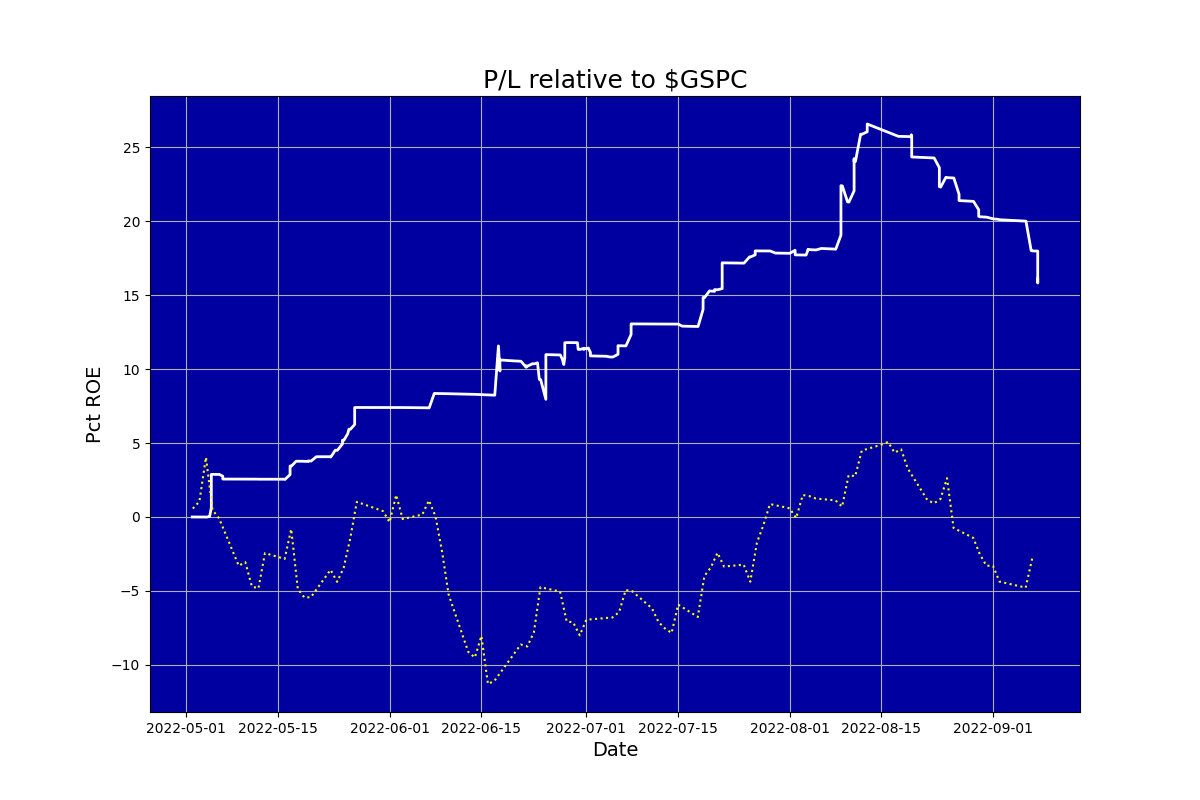
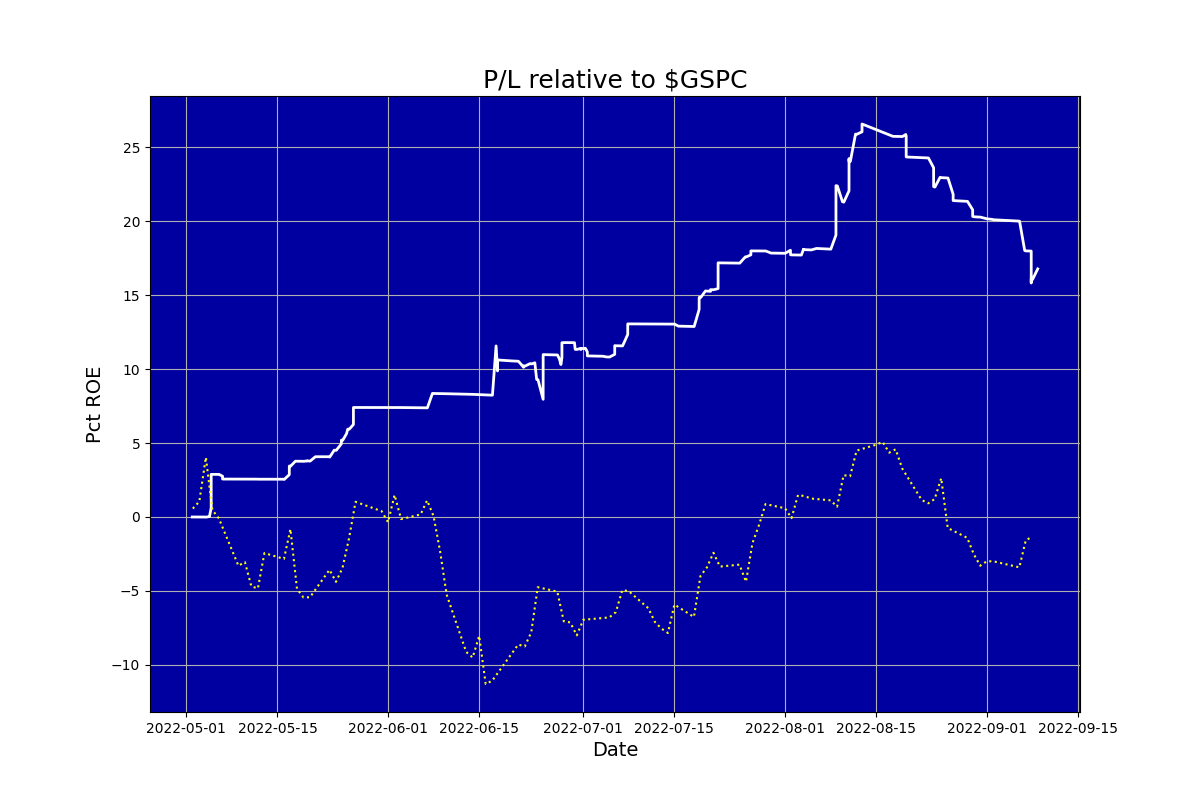
Updated

diff --git a/ig_report.html b/ig_report.html
@@ -1,1 +1,1 @@
-<html><body><center><h1>Auriel (never knowingly overbought)</h1></center><table cols=2><tr><td><img src=ig_pl.png></td><td><table cols=2><tr><td colspan=2><b><br>Snapshot</b></td></tr><tr><td>Last updated:&nbsp;&nbsp;&nbsp;</td><td>2022-09-07 16:00</td></tr><tr><td>Funds:&nbsp;&nbsp;&nbsp;</td><td>13422.88</td></tr><tr><td>Margin:&nbsp;&nbsp;&nbsp;</td><td>0.41</td></tr><tr><td>Cushion:&nbsp;&nbsp;&nbsp;</td><td>-2349.92</td></tr><tr><td>Last closed trade:&nbsp;&nbsp;&nbsp;</td><td>2022-09-07</td></tr><tr><td colspan=2><b><br>Positions</b></td></tr><tr><td>Mean days to new high:&nbsp;&nbsp;&nbsp;</td><td>3.45</td></tr><tr><td colspan=2><b><br>Trades</b></td></tr><tr><td>Num trades:&nbsp;&nbsp;&nbsp;</td><td>109</td></tr><tr><td>Pct winners:&nbsp;&nbsp;&nbsp;</td><td>60.55</td></tr><tr><td>Pct beating benchmark:&nbsp;&nbsp;&nbsp;</td><td>59.26</td></tr><tr><td>Pct profitable months:&nbsp;&nbsp;&nbsp;</td><td>80.00</td></tr><tr><td colspan=2><b><br>Performance</b></td></tr><tr><td>Pct median monthly ROE:&nbsp;&nbsp;&nbsp;</td><td>4.25</td></tr><tr><td>Pct annualised ROE:&nbsp;&nbsp;&nbsp;</td><td>86.22</td></tr><tr><td colspan=2><b><br>Risk</b></td></tr><tr><td>Volatility pct:&nbsp;&nbsp;&nbsp;</td><td>20.14</td></tr><tr><td>Benchmark volatility pct:&nbsp;&nbsp;&nbsp;</td><td>24.97</td></tr><tr><td>Sharpe ratio:&nbsp;&nbsp;&nbsp;</td><td>4.19</td></tr><tr><td>Calmar ratio:&nbsp;&nbsp;&nbsp;</td><td>8.46</td></tr><tr><td>Worst drawdown pct:&nbsp;&nbsp;&nbsp;</td><td>-0.10</td></tr><tr><td>Recovery days from worst drawdown:&nbsp;&nbsp;&nbsp;</td><td>9999.00</td></tr><tr><td>Beat benchmark +ve periods pct:&nbsp;&nbsp;&nbsp;</td><td>0.82</td></tr><tr><td>Beat benchmark -ve periods pct:&nbsp;&nbsp;&nbsp;</td><td>0.96</td></tr><tr><td>Correlation with benchmark:&nbsp;&nbsp;&nbsp;</td><td>0.25</td></tr></table></td></tr></table></body></html>
+<html><body><center><h1>Auriel (never knowingly overbought)</h1></center><table cols=2><tr><td><img src=ig_pl.png></td><td><table cols=2><tr><td colspan=2><b><br>Snapshot</b></td></tr><tr><td>Last updated:&nbsp;&nbsp;&nbsp;</td><td>2022-09-08 15:58</td></tr><tr><td>Funds:&nbsp;&nbsp;&nbsp;</td><td>13519.88</td></tr><tr><td>Margin:&nbsp;&nbsp;&nbsp;</td><td>0.39</td></tr><tr><td>Cushion:&nbsp;&nbsp;&nbsp;</td><td>-2107.01</td></tr><tr><td>Last closed trade:&nbsp;&nbsp;&nbsp;</td><td>2022-09-08</td></tr><tr><td colspan=2><b><br>Positions</b></td></tr><tr><td>Mean days to new high:&nbsp;&nbsp;&nbsp;</td><td>3.53</td></tr><tr><td colspan=2><b><br>Trades</b></td></tr><tr><td>Num trades:&nbsp;&nbsp;&nbsp;</td><td>110</td></tr><tr><td>Pct winners:&nbsp;&nbsp;&nbsp;</td><td>60.91</td></tr><tr><td>Pct beating benchmark:&nbsp;&nbsp;&nbsp;</td><td>59.63</td></tr><tr><td>Pct profitable months:&nbsp;&nbsp;&nbsp;</td><td>80.00</td></tr><tr><td colspan=2><b><br>Performance</b></td></tr><tr><td>Pct median monthly ROE:&nbsp;&nbsp;&nbsp;</td><td>4.25</td></tr><tr><td>Pct annualised ROE:&nbsp;&nbsp;&nbsp;</td><td>88.07</td></tr><tr><td colspan=2><b><br>Risk</b></td></tr><tr><td>Volatility pct:&nbsp;&nbsp;&nbsp;</td><td>19.95</td></tr><tr><td>Benchmark volatility pct:&nbsp;&nbsp;&nbsp;</td><td>24.74</td></tr><tr><td>Sharpe ratio:&nbsp;&nbsp;&nbsp;</td><td>4.32</td></tr><tr><td>Calmar ratio:&nbsp;&nbsp;&nbsp;</td><td>8.64</td></tr><tr><td>Worst drawdown pct:&nbsp;&nbsp;&nbsp;</td><td>-0.10</td></tr><tr><td>Recovery days from worst drawdown:&nbsp;&nbsp;&nbsp;</td><td>9999.00</td></tr><tr><td>Beat benchmark +ve periods pct:&nbsp;&nbsp;&nbsp;</td><td>0.83</td></tr><tr><td>Beat benchmark -ve periods pct:&nbsp;&nbsp;&nbsp;</td><td>0.95</td></tr><tr><td>Correlation with benchmark:&nbsp;&nbsp;&nbsp;</td><td>0.26</td></tr></table></td></tr></table></body></html>
